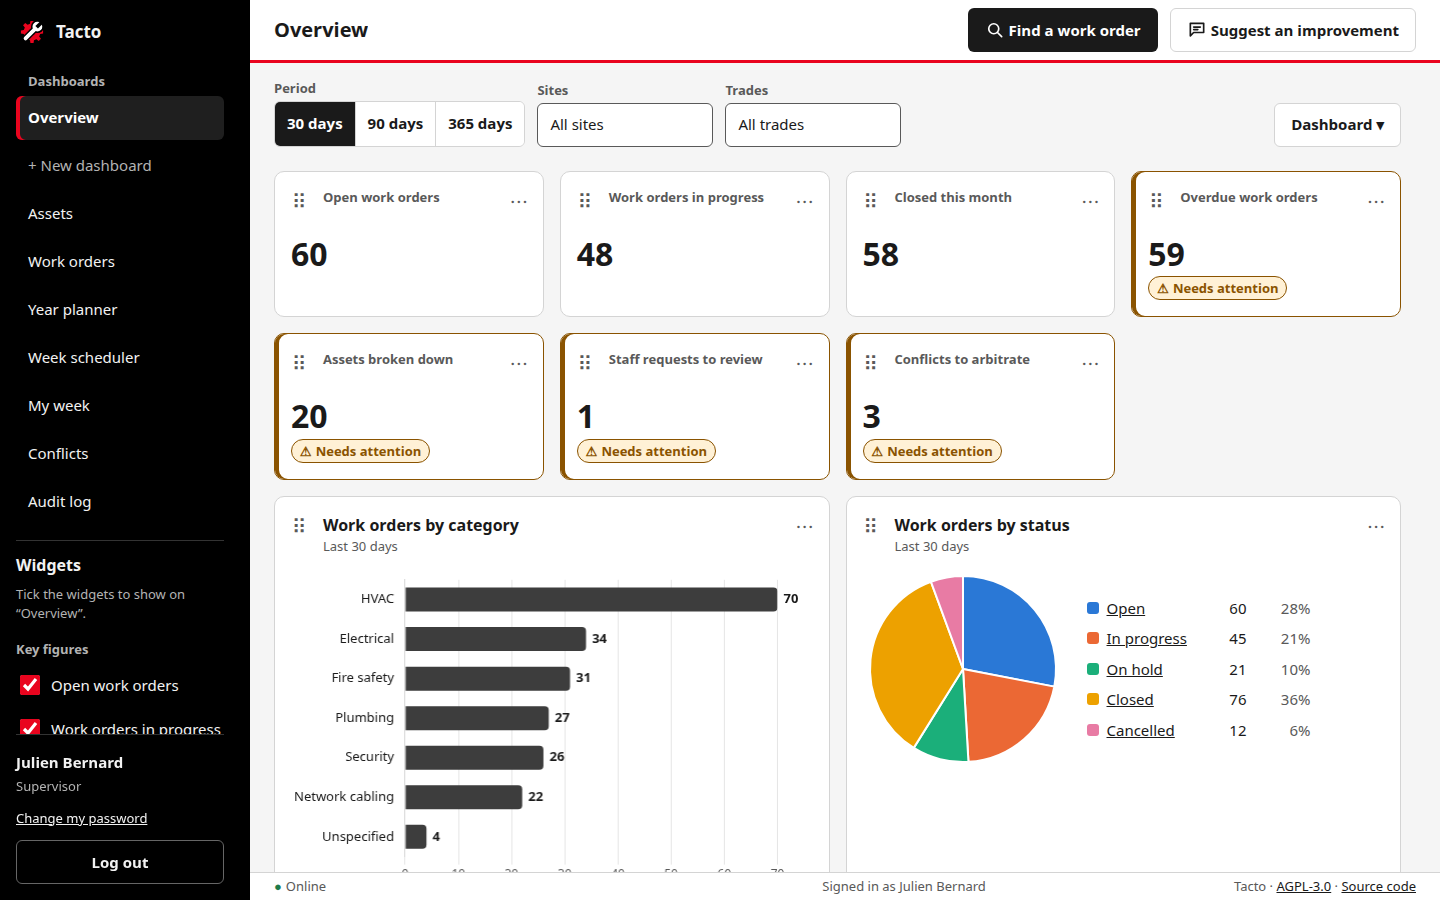
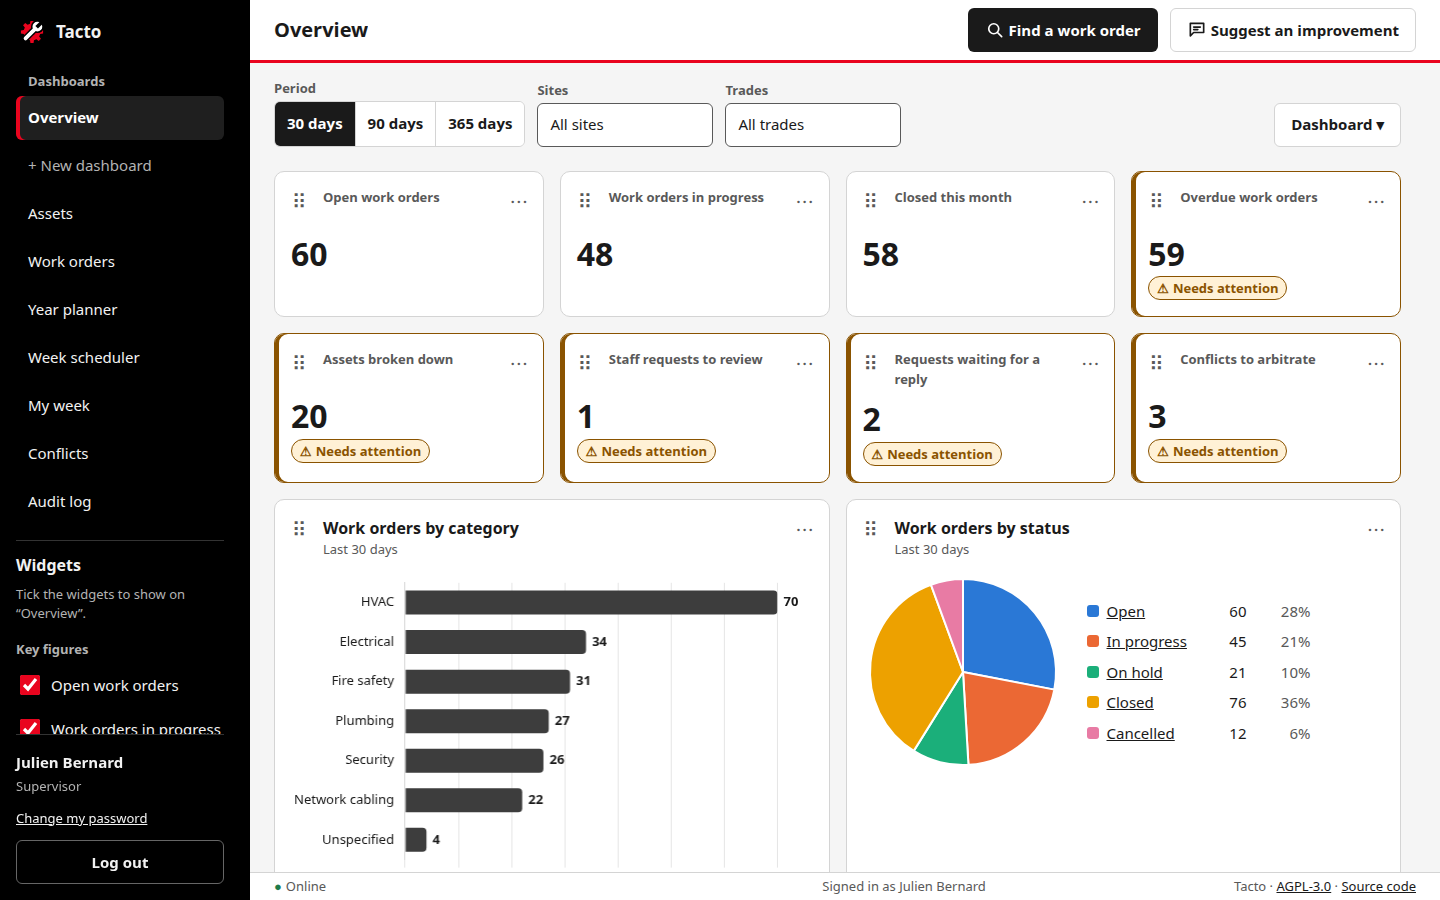
feat: requests waiting for a reply (D80)
A staff request waits for a reply when its latest comment is the
requester's; any comment from the maintenance team ends it. Computed
from work_order_comments, no migration. New list filter
awaiting_reply, dashboard KPI requests_awaiting_reply (supervisors and
admins, also a widget in the Overview template) and
my_requests_awaiting_reply (technicians, their assigned work orders),
and a notice under the conversation in the work order panel.

diff --git a/backend/test/api/requests.test.js b/backend/test/api/requests.test.js
@@ -347,6 +347,93 @@ describe('comments', () => {
   });
 });
 
+describe('requests waiting for a reply (D80)', () => {
+  const kpis = async (username) => (await get(username, '/api/dashboard').expect(200)).body.kpis;
+  const awaitingIds = async (query = '') =>
+    (
+      await get('supervisor1', `/api/work-orders?awaiting_reply=true&size=100${query}`).expect(200)
+    ).body.items.map((w) => w.id);
+  const comment = (username, id, body) =>
+    username === 'user1'
+      ? send('post', 'user1', `/api/requests/${id}/comments`, { body }).expect(201)
+      : send('post', username, `/api/work-orders/${id}/comments`, { body }).expect(201);
+
+  it("counts a request whose latest comment is the requester's, until the team replies", async () => {
+    const { id } = (await send('post', 'user1', '/api/requests', newRequest()).expect(201)).body
+      .item;
+    await send('put', 'supervisor1', `/api/work-orders/${id}/review`, {
+      decision: 'APPROVE',
+      version: 1,
+      assignee_id: userId('technician1'),
+    }).expect(200);
+    const before = await kpis('supervisor1');
+    const techBefore = (await kpis('technician1')).my_requests_awaiting_reply;
+    expect(await awaitingIds()).not.toContain(id);
+
+    await comment('user1', id, 'Any news?');
+    expect(await awaitingIds()).toContain(id);
+    expect((await kpis('supervisor1')).requests_awaiting_reply).toBe(
+      before.requests_awaiting_reply + 1,
+    );
+    expect((await kpis('admin')).requests_awaiting_reply).toBe(before.requests_awaiting_reply + 1);
+    // Technicians count only the requests assigned to them.
+    expect((await kpis('technician1')).my_requests_awaiting_reply).toBe(techBefore + 1);
+    expect((await kpis('technician2')).my_requests_awaiting_reply).toBe(
+      (await get('technician2', '/api/work-orders?awaiting_reply=true&mine=true').expect(200)).body
+        .total,
+    );
+    // A second message from the requester is still one request waiting.
+    await comment('user1', id, 'It is getting worse.');
+    expect((await kpis('supervisor1')).requests_awaiting_reply).toBe(
+      before.requests_awaiting_reply + 1,
+    );
+
+    // Any team member's reply clears it, even one who is not assigned.
+    await comment('supervisor1', id, 'Lucas comes this afternoon.');
+    expect(await awaitingIds()).not.toContain(id);
+    const notWaiting = await get('supervisor1', '/api/work-orders?awaiting_reply=false&size=100');
+    expect(notWaiting.body.items.map((w) => w.id)).toContain(id);
+    expect((await kpis('supervisor1')).requests_awaiting_reply).toBe(
+      before.requests_awaiting_reply,
+    );
+    expect((await kpis('technician1')).my_requests_awaiting_reply).toBe(techBefore);
+  });
+
+  it('splits the list exactly in two with awaiting_reply=true and false', async () => {
+    const total = async (query) =>
+      (await get('supervisor1', `/api/work-orders?size=1${query}`).expect(200)).body.total;
+    const all = await total('');
+    const waiting = await total('&awaiting_reply=true');
+    expect(waiting).toBeGreaterThan(0); // the seed's "thank you" comment
+    expect(waiting + (await total('&awaiting_reply=false'))).toBe(all);
+  });
+
+  it('offers the same count as a dashboard widget, with its drill-down list', async () => {
+    const { requests_awaiting_reply: count } = await kpis('supervisor1');
+    const res = await get('supervisor1', '/api/dashboard/widgets?keys=requests_awaiting_reply');
+    expect(res.status).toBe(200);
+    expect(res.body.widgets.requests_awaiting_reply.value).toBe(count);
+    const drill = await get('supervisor1', '/api/work-orders?drill=requests_awaiting_reply');
+    expect(drill.status).toBe(200);
+    expect(drill.body.total).toBe(count);
+    const overview = (await get('admin', '/api/dashboards').expect(200)).body.items[0];
+    expect(overview.widgets.map((w) => w.key)).toContain('requests_awaiting_reply');
+  });
+
+  it('gives each role its own count only', async () => {
+    const sup = await kpis('supervisor1');
+    expect(sup).toHaveProperty('requests_awaiting_reply');
+    expect(sup).not.toHaveProperty('my_requests_awaiting_reply');
+    const tech = await kpis('technician1');
+    expect(tech).toHaveProperty('my_requests_awaiting_reply');
+    expect(tech).not.toHaveProperty('requests_awaiting_reply');
+  });
+
+  it('refuses an invalid flag (400)', async () => {
+    await get('supervisor1', '/api/work-orders?awaiting_reply=yes').expect(400);
+  });
+});
+
 describe('review by a supervisor (D47)', () => {
   const sendRequest = async (overrides = {}) =>
     (await send('post', 'user1', '/api/requests', newRequest(overrides)).expect(201)).body.item;

diff --git a/backend/src/services/work-orders.js b/backend/src/services/work-orders.js
@@ -128,6 +128,16 @@ export const WORK_ORDER_SORTS = {
   updated_at: 'w.updated_at',
 };
 
+/**
+ * Work orders whose latest comment is the requester's: they wait for a reply from the
+ * maintenance team (D80). Staff only comment on their own requests, so a STAFF comment is
+ * always the requester's. Comments are append-only, so the highest id is the latest one.
+ */
+export const AWAITING_REPLY = `w.id IN (SELECT work_order_id FROM work_order_comments
+  GROUP BY work_order_id
+  HAVING max(CASE WHEN user_role = 'STAFF' THEN id END)
+    > coalesce(max(CASE WHEN user_role <> 'STAFF' THEN id END), 0))`;
+
 /** Row → WorkOrder shape, with its asset summary and user references. */
 export function toWorkOrder(row) {
   const wo = {};
@@ -171,6 +181,7 @@ export function workOrderFilters(
     mine,
     overdue,
     to_review: toReview,
+    awaiting_reply: awaitingReply,
   },
   { userId, today, extra },
 ) {
@@ -205,6 +216,8 @@ export function workOrderFilters(
   }
   if (toReview) where.push("w.review_status = 'PENDING'");
   else if (toReview === false) where.push("w.review_status IS NOT 'PENDING'");
+  if (awaitingReply) where.push(AWAITING_REPLY);
+  else if (awaitingReply === false) where.push(`NOT ${AWAITING_REPLY}`);
   return { clause: where.length ? `WHERE ${where.join(' AND ')}` : '', params };
 }
 
@@ -232,6 +245,12 @@ export function createWorkOrderService(db) {
   const roleOf = db.prepare('SELECT role FROM users WHERE id = ? AND is_active = 1').pluck();
   const toReviewCount = db
     .prepare("SELECT count(*) FROM work_orders WHERE review_status = 'PENDING'")
+    .pluck();
+  const awaitingReplyCount = db
+    .prepare(`SELECT count(*) FROM work_orders w WHERE ${AWAITING_REPLY}`)
+    .pluck();
+  const awaitingReplyAssigned = db
+    .prepare(`SELECT count(*) FROM work_orders w WHERE ${AWAITING_REPLY} AND w.assignee_id = ?`)
     .pluck();
   const idByClientId = db.prepare('SELECT id FROM work_orders WHERE client_id = ?').pluck();
   const highestNumber = db
@@ -546,6 +565,17 @@ export function createWorkOrderService(db) {
     /** Staff requests waiting for a review (dashboard tile, D47). */
     countToReview() {
       return toReviewCount.get();
+    },
+
+    /**
+     * Staff requests waiting for a reply from the maintenance team (D80): all of them, or
+     * those assigned to `assigneeId`.
+     * @param {number} [assigneeId]
+     */
+    countAwaitingReply(assigneeId) {
+      return assigneeId === undefined
+        ? awaitingReplyCount.get()
+        : awaitingReplyAssigned.get(assigneeId);
     },
 
     /**

diff --git a/backend/src/rules/dashboards.js b/backend/src/rules/dashboards.js
@@ -27,6 +27,7 @@ export const WIDGETS = [
   { key: 'overdue_work_orders', filters: ['sites', 'categories'], rows: 'work_orders' },
   { key: 'assets_broken_down', filters: ['sites', 'categories'], rows: 'assets' },
   { key: 'requests_to_review', filters: ['sites', 'categories'], rows: 'work_orders' },
+  { key: 'requests_awaiting_reply', filters: ['sites', 'categories'], rows: 'work_orders' },
   { key: 'pending_conflicts', filters: [], rows: null },
   // Flow and backlog (Phase 22).
   { key: 'opened_vs_closed', filters: ['period', 'sites', 'categories'], rows: 'work_orders' },
@@ -72,7 +73,7 @@ export function widgetDef(key) {
 
 /** Templates offered when creating a dashboard (§6.5; the others come with their widgets). */
 export const TEMPLATES = {
-  // Today's home dashboard: never grows with new widgets.
+  // Today's home dashboard: grows only with a key figure the team must act on (D80).
   OVERVIEW: [
     'open_work_orders',
     'in_progress_work_orders',
@@ -80,6 +81,7 @@ export const TEMPLATES = {
     'overdue_work_orders',
     'assets_broken_down',
     'requests_to_review',
+    'requests_awaiting_reply',
     'pending_conflicts',
     'by_category',
     'by_status',

diff --git a/frontend/assets/js/comments.js b/frontend/assets/js/comments.js
@@ -36,6 +36,9 @@ export function commentAuthor(comment, viewer) {
   return `${name} (${valueLabel('role', comment.user_role).toLowerCase()})`;
 }
 
+/** The requester wrote last: the maintenance team owes them a reply (D80). Pure. */
+export const awaitsReply = (comments) => comments.at(-1)?.user_role === 'STAFF';
+
 /** The conversation, oldest first. */
 export function renderConversation(comments, viewer) {
   if (!comments.length) return h('p', { class: 'muted' }, 'No comment yet.');
@@ -132,7 +135,14 @@ export function commentForm({ key, label, hint, send, onSent }) {
  */
 export function commentsSection(workOrderId, viewer) {
   const list = h('div', { class: 'comments-body', 'aria-live': 'polite' });
-  const show = (items) => replaceChildren(list, renderConversation(items, viewer));
+  const show = (items) =>
+    replaceChildren(
+      list,
+      renderConversation(items, viewer),
+      awaitsReply(items)
+        ? h('p', { class: 'banner banner-info' }, 'The requester is waiting for a reply.')
+        : null,
+    );
   let items = [];
   const load = async () => {
     replaceChildren(list, h('p', { class: 'muted' }, 'Loading the comments…'));

diff --git a/backend/src/services/dashboard.js b/backend/src/services/dashboard.js
@@ -29,7 +29,9 @@ export function createDashboardService(db, { workOrders }) {
 
   return {
     /**
-     * Dashboard of a user. `pending_conflicts` is only given to supervisors and admins.
+     * Dashboard of a user. `pending_conflicts`, `requests_to_review` and
+     * `requests_awaiting_reply` are only given to supervisors and admins, technicians get
+     * `my_requests_awaiting_reply` instead.
      * @param {{ id: number, role: string }} user
      * @param {{ now: Date, timeZone: string }} ctx
      */
@@ -47,6 +49,10 @@ export function createDashboardService(db, { workOrders }) {
         kpis.pending_conflicts = pendingConflicts.get();
         // Staff requests waiting for a supervisor (D47).
         kpis.requests_to_review = workOrders.countToReview();
+        // Requests whose requester wrote last (D80); technicians: those assigned to them.
+        kpis.requests_awaiting_reply = workOrders.countAwaitingReply();
+      } else {
+        kpis.my_requests_awaiting_reply = workOrders.countAwaitingReply(user.id);
       }
 
       const lastDay = weekEnd(today);

diff --git a/frontend/test/requests.test.js b/frontend/test/requests.test.js
@@ -3,6 +3,7 @@
 
 import { describe, expect, it, vi } from 'vitest';
 import {
+  awaitsReply,
   checkComment,
   commentAuthor,
   commentForm,
@@ -344,6 +345,13 @@ describe('comments', () => {
     const supervisor = { id: 2, role: 'SUPERVISOR' };
     expect(commentAuthor(fromKarim, supervisor)).toBe('Karim Benali (technician)');
     expect(commentAuthor(fromEmma, supervisor)).toBe('Emma Rousseau (requester)');
+  });
+
+  it('waits for a reply when the requester wrote last (D80)', () => {
+    expect(awaitsReply([])).toBe(false);
+    expect(awaitsReply([{ user_role: 'STAFF' }])).toBe(true);
+    expect(awaitsReply([{ user_role: 'STAFF' }, { user_role: 'TECHNICIAN' }])).toBe(false);
+    expect(awaitsReply([{ user_role: 'SUPERVISOR' }, { user_role: 'STAFF' }])).toBe(true);
   });
 
   it('renders comment text as text', () => {

diff --git a/backend/src/services/dashboard-widgets.js b/backend/src/services/dashboard-widgets.js
@@ -28,6 +28,7 @@ import {
 import { weeklyCapacity } from '../rules/planning.js';
 import { complianceWidgets, toVisit } from './dashboard-compliance.js';
 import { peopleWidgets } from './dashboard-people.js';
+import { AWAITING_REPLY } from './work-orders.js';
 
 const RECENT_ACTIVITY_SIZE = 5;
 /** Priorities from the most urgent, as rows of the backlog matrix. */
@@ -122,6 +123,7 @@ export function createDashboardWidgetService(db, { workOrders, assets }) {
       where: ({ today }) => ({ sql: `${UNFINISHED} AND w.due_on < @today`, params: { today } }),
     },
     requests_to_review: { where: () => ({ sql: "w.review_status = 'PENDING'" }) },
+    requests_awaiting_reply: { where: () => ({ sql: AWAITING_REPLY }) },
 
     by_category: {
       where: (ctx, segment) => {

diff --git a/frontend/test/review.test.js b/frontend/test/review.test.js
@@ -131,4 +131,18 @@ describe('dashboard and list', () => {
       to_review: true,
     });
   });
+
+  it('links the "waiting for a reply" tiles to the matching lists (D80)', () => {
+    const tiles = kpiTiles({ requests_awaiting_reply: 2, my_requests_awaiting_reply: 0 });
+    expect(tiles.find((t) => t.key === 'requests_awaiting_reply')).toMatchObject({
+      flagged: true,
+      href: '/work-orders?awaiting_reply=true',
+    });
+    const mine = tiles.find((t) => t.key === 'my_requests_awaiting_reply');
+    expect(mine.flagged).toBe(false);
+    expect(parseFilters('work_orders', new URL(mine.href, 'http://x').searchParams)).toEqual({
+      mine: true,
+      awaiting_reply: true,
+    });
+  });
 });

diff --git a/frontend/assets/js/dashboard.js b/frontend/assets/js/dashboard.js
@@ -40,6 +40,19 @@ export const KPI_TILES = [
     href: '/work-orders?to_review=true',
     attention: true,
   },
+  // Requests whose requester wrote last (D80): all of them, or a technician's own.
+  {
+    key: 'requests_awaiting_reply',
+    label: 'Requests waiting for a reply',
+    href: '/work-orders?awaiting_reply=true',
+    attention: true,
+  },
+  {
+    key: 'my_requests_awaiting_reply',
+    label: 'Requests waiting for my reply',
+    href: '/work-orders?mine=true&awaiting_reply=true',
+    attention: true,
+  },
   {
     key: 'pending_conflicts',
     label: 'Conflicts to arbitrate',

diff --git a/frontend/assets/js/filters.js b/frontend/assets/js/filters.js
@@ -38,6 +38,8 @@ export const FILTERS = {
     overdue: { kind: 'flag', label: 'Overdue' },
     // Staff requests waiting for a supervisor (D47); shown to supervisors and admins.
     to_review: { kind: 'flag', label: 'Requests to review', supervisors: true },
+    // Staff requests whose requester wrote last (D80).
+    awaiting_reply: { kind: 'flag', label: 'Waiting for a reply' },
     // The records behind a dashboard widget segment (D59, K9), and its period in days.
     drill: { kind: 'drill' },
     period: { kind: 'period' },

diff --git a/backend/test/unit/dashboards.test.js b/backend/test/unit/dashboards.test.js
@@ -23,7 +23,7 @@ describe('widget catalogue', () => {
   it('builds templates from known widgets only', () => {
     for (const keys of Object.values(TEMPLATES))
       expect(widgetsProblem(keys.map((key) => ({ key })))).toBeNull();
-    expect(templateWidgets('OVERVIEW')).toHaveLength(11);
+    expect(templateWidgets('OVERVIEW')).toHaveLength(12);
     expect(templateWidgets('OVERVIEW')[0]).toEqual({ key: 'open_work_orders', options: {} });
     expect(templateWidgets('EMPTY')).toEqual([]);
   });

diff --git a/backend/test/api/dashboards.test.js b/backend/test/api/dashboards.test.js
@@ -168,7 +168,7 @@ describe('GET /api/dashboards', () => {
       filters: { period: 30, sites: [], categories: [] },
     });
     expect(overview.widgets.map((w) => w.key)).toEqual(TEMPLATES.OVERVIEW);
-    expect(TEMPLATES.OVERVIEW).toHaveLength(11);
+    expect(TEMPLATES.OVERVIEW).toHaveLength(12);
     const again = await as('sup').get('/api/dashboards').expect(200);
     expect(ids(again.body.items)).toEqual([overview.id]);
     expectNoSecrets(again.body);
